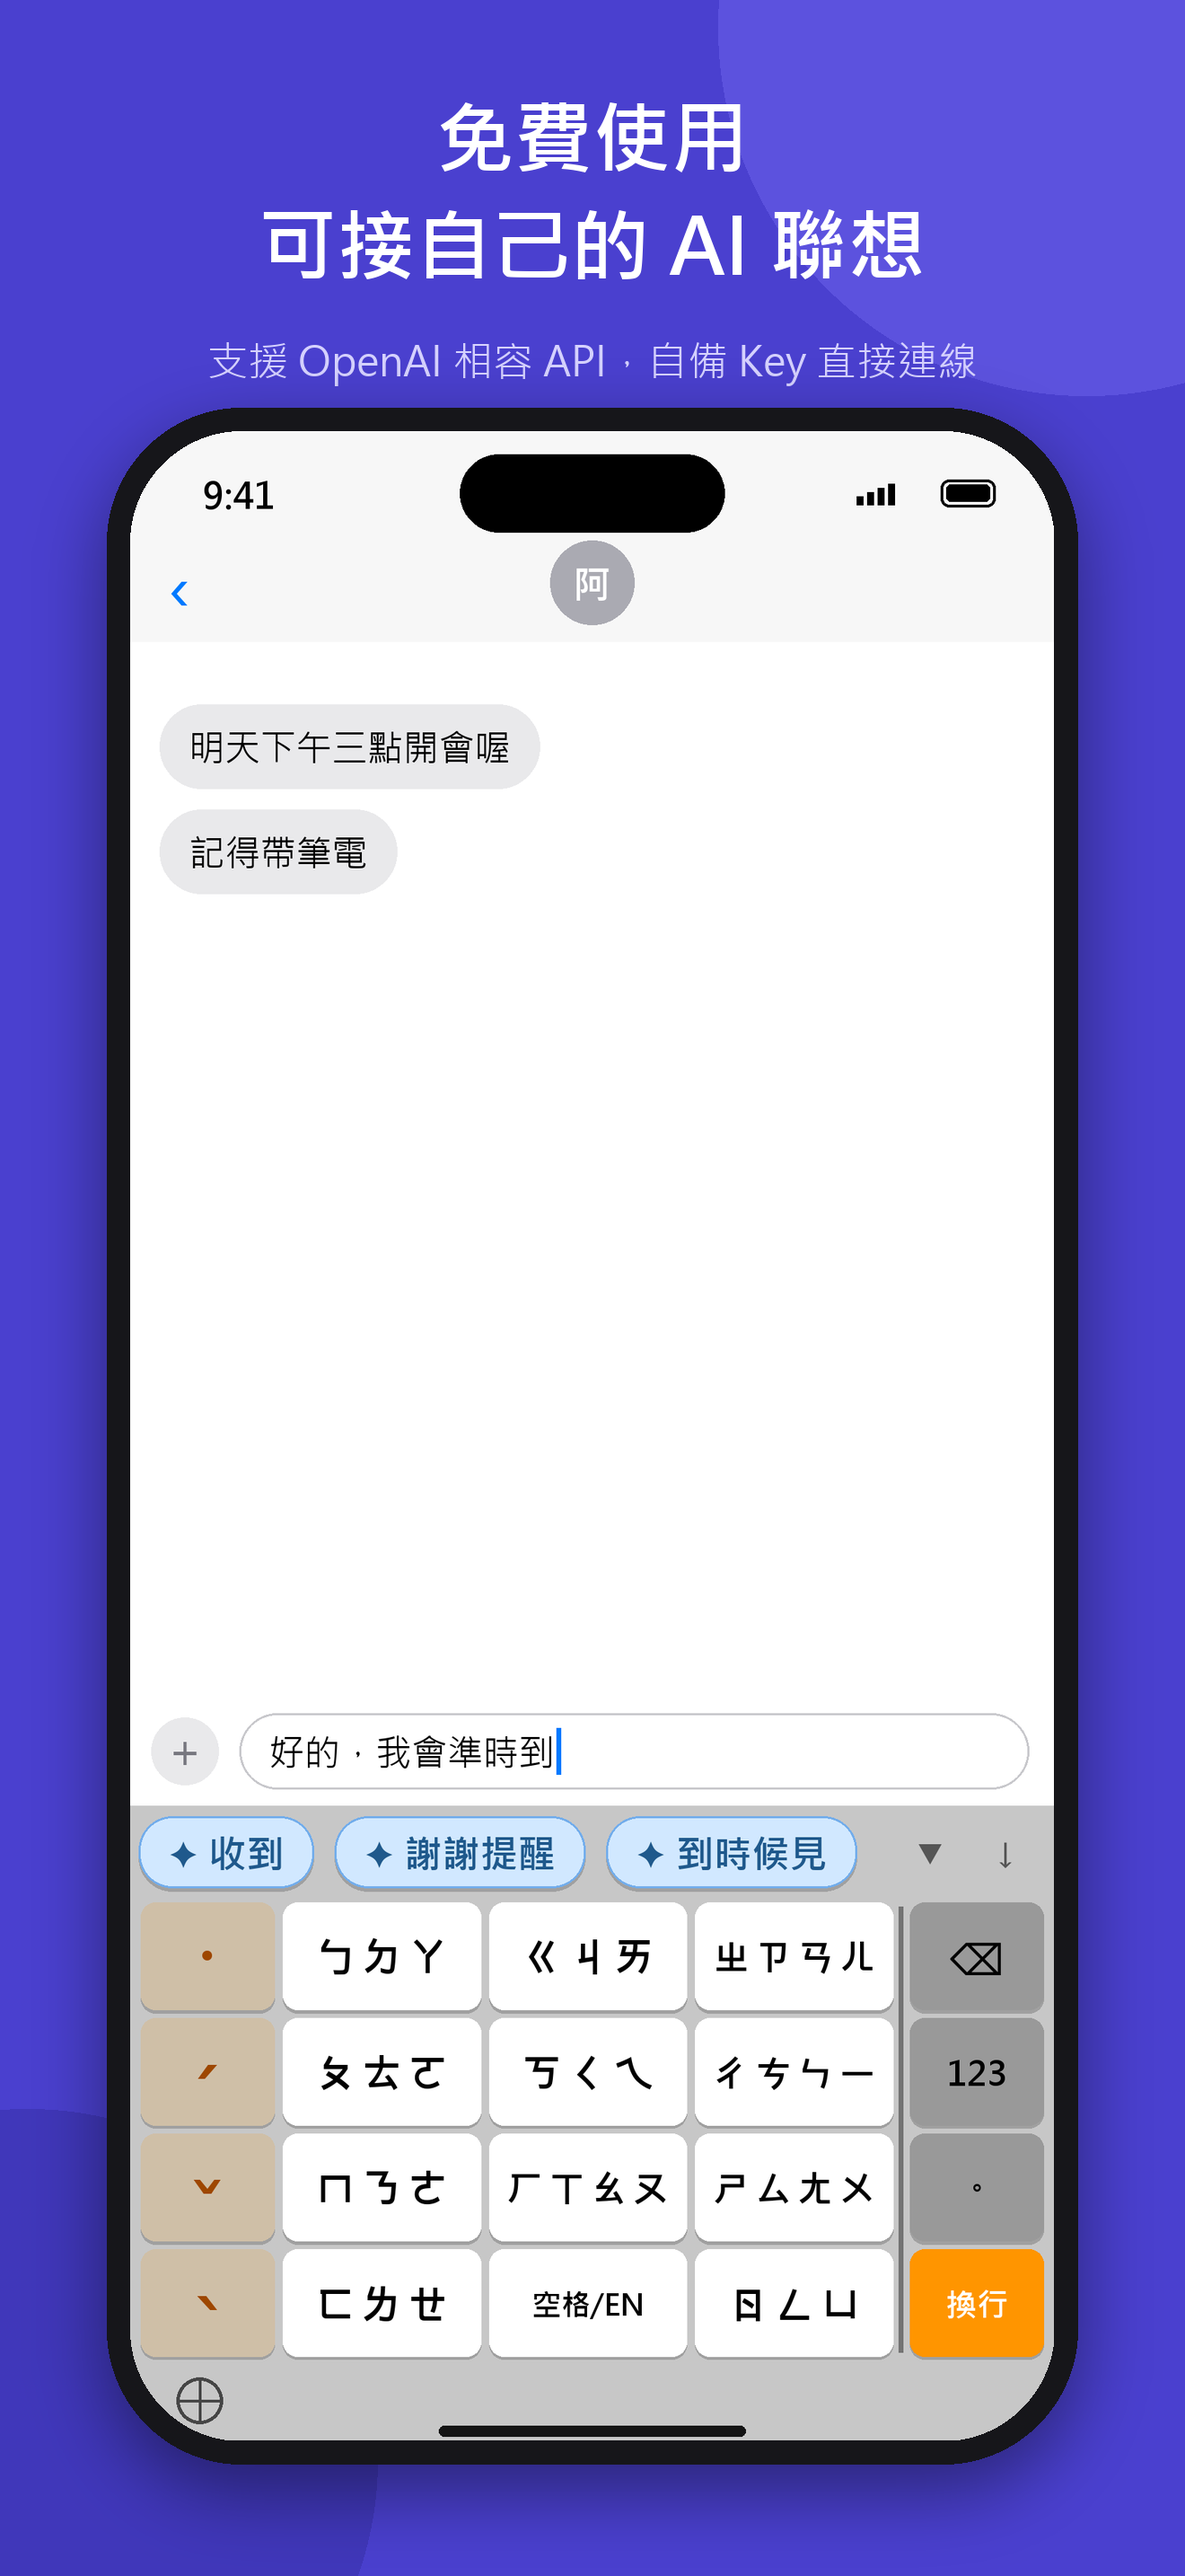
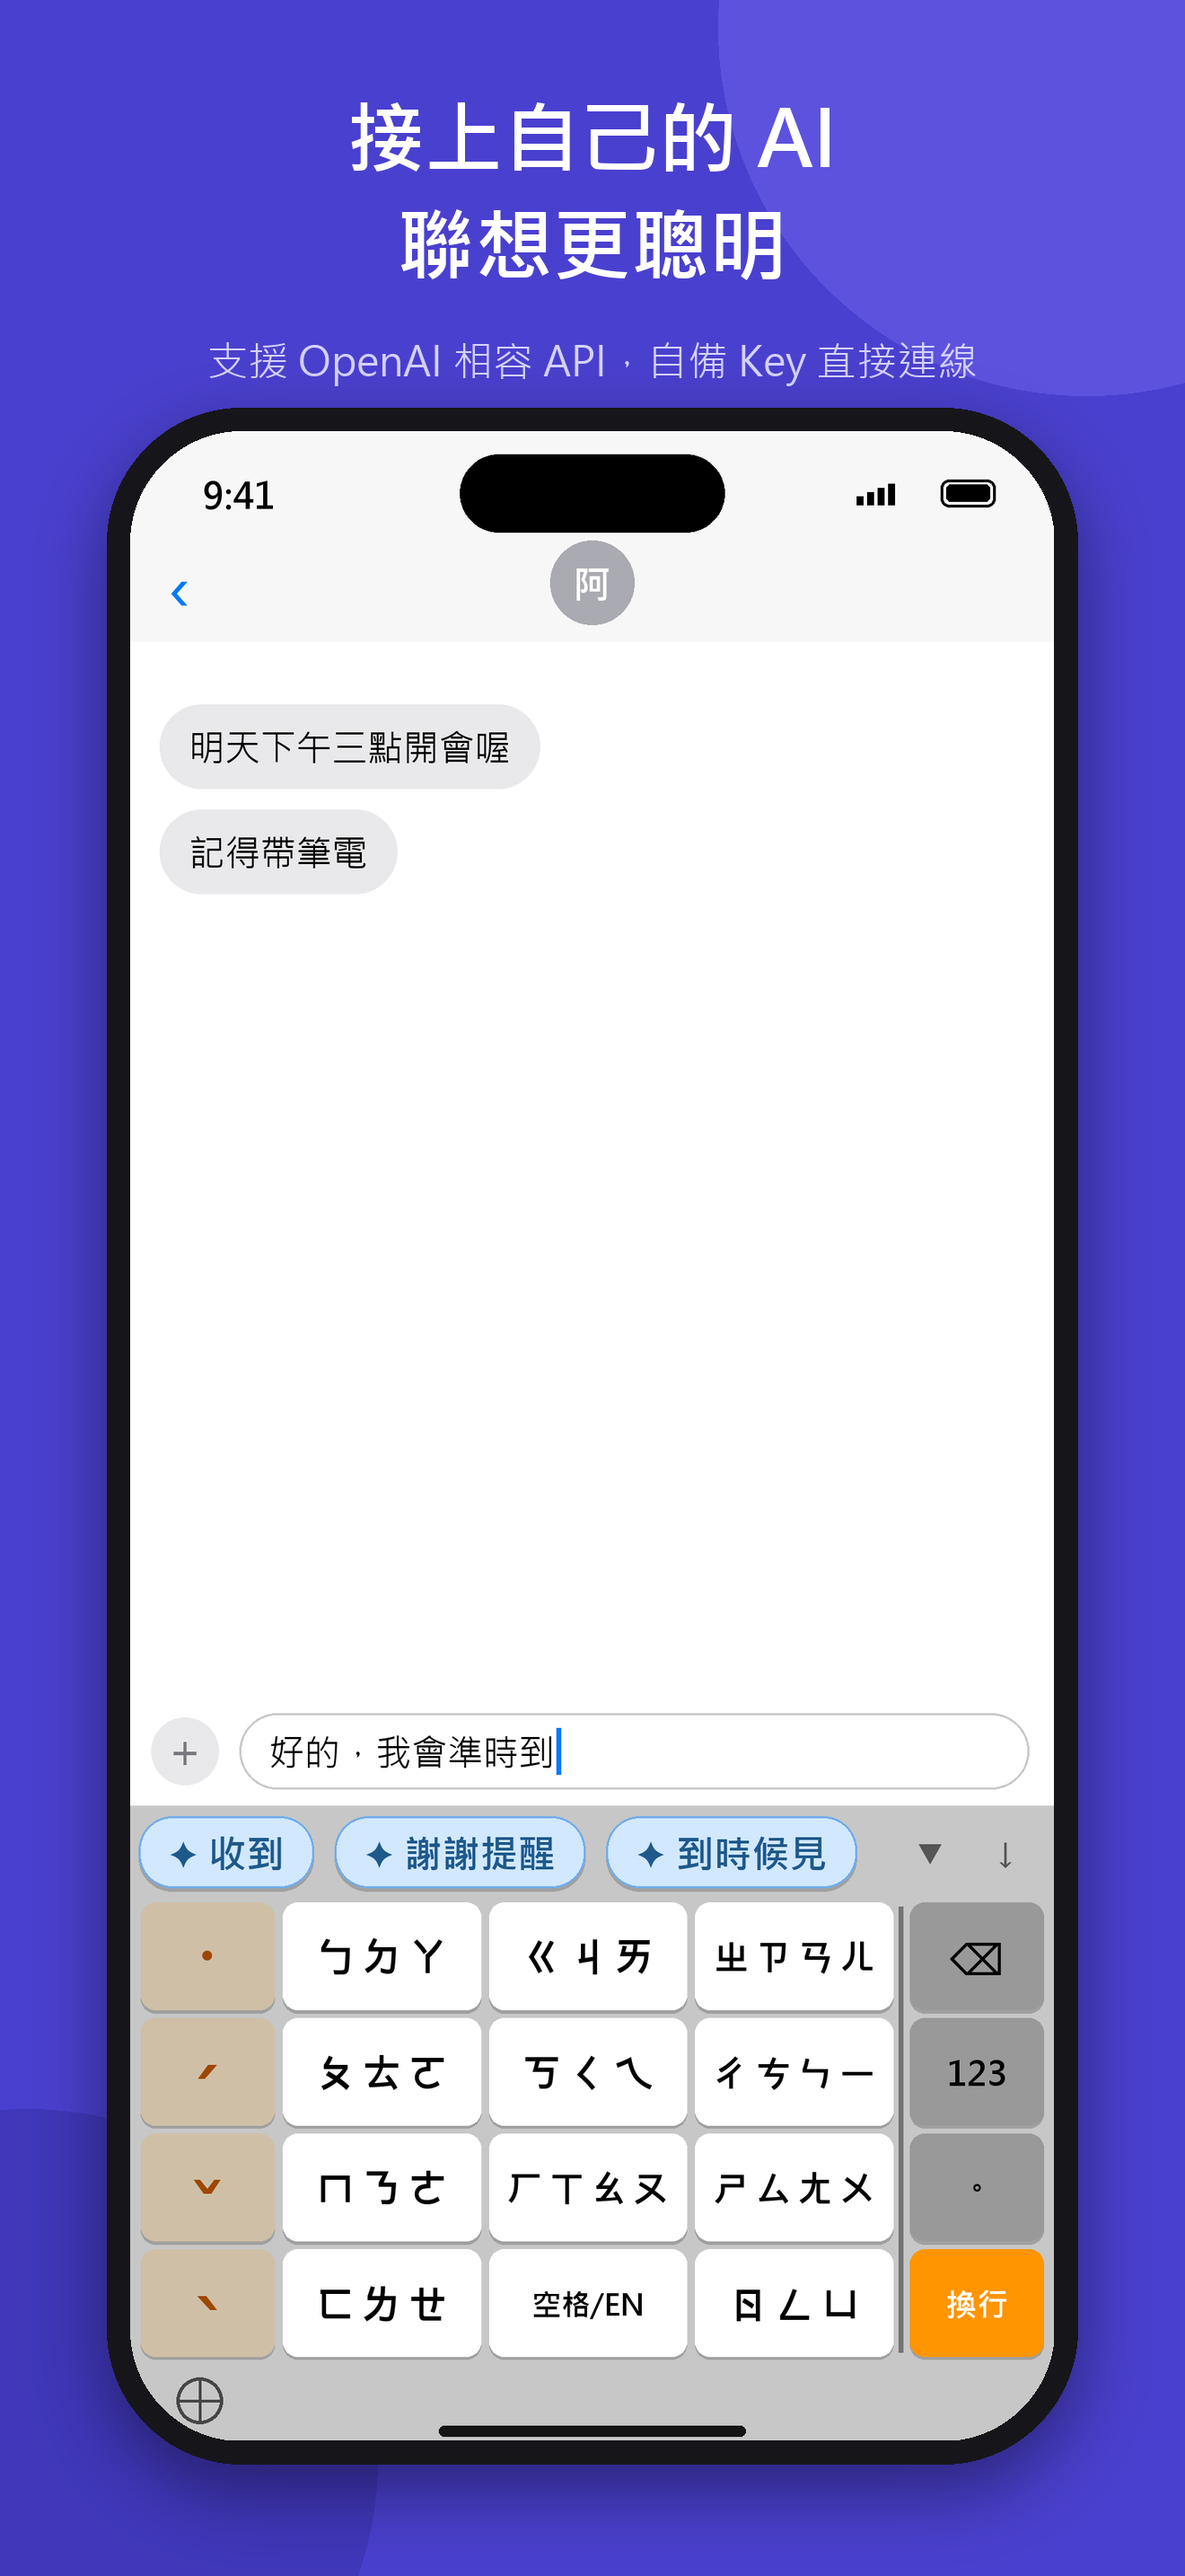
App Store listing: drop "free" wording from text and 04-llm screenshot [skip ci]

Changed region(s): [[0.2174, 0.031, 0.7765, 0.1241]]

diff --git a/Scripts/render_asc_screenshots.py b/Scripts/render_asc_screenshots.py
@@ -416,7 +416,7 @@ def shot_llm():
     messages(d, "阿哲", [(False, "明天下午三點開會喔"), (False, "記得帶筆電")], "好的，我會準時到")
     llm = ["收到", "謝謝提醒", "到時候見"]
     keyboard(im, items=llm, llm=set(llm))
-    return framed(im, "免費使用\n可接自己的 AI 聯想", "支援 OpenAI 相容 API，自備 Key 直接連線")
+    return framed(im, "接上自己的 AI\n聯想更聰明", "支援 OpenAI 相容 API，自備 Key 直接連線")
 
 
 def shot_setup():
